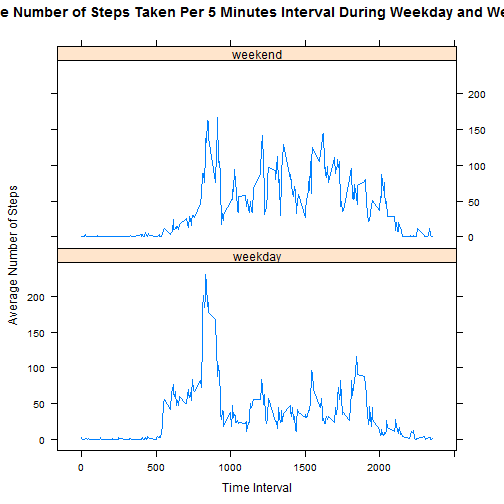
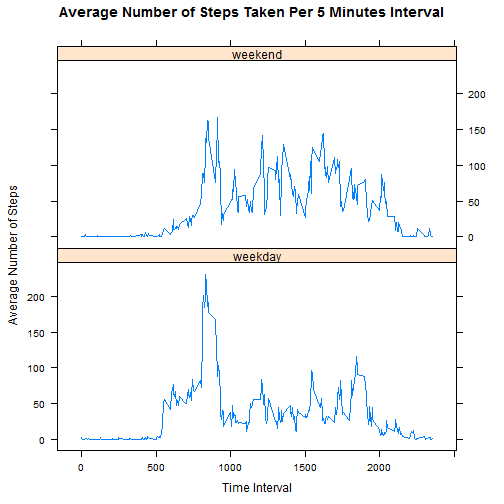
second commit

Changed region(s): [[0.0, 0.0, 1.0, 0.0595]]

diff --git a/PA1_template.html b/PA1_template.html
@@ -464,10 +464,10 @@ interval: Identifier for the 5-minute interval in which measurement was taken</p
         xyplot(stepsPerInterval$steps ~ stepsPerInterval$interval | stepsPerInterval$day, 
                layout = c(1, 2), type = &quot;l&quot;, 
                xlab = &quot;Time Interval&quot;, ylab = &quot;Average Number of Steps&quot;, 
-               main=&quot;Average Number of Steps Taken Per 5 Minutes Interval During Weekday and Weekend&quot;)
+               main=&quot;Average Number of Steps Taken Per 5 Minutes Interval&quot;)
 </code></pre>
 
[2 lines of base64/hex data omitted]
 
 </body>
 

diff --git a/PA1_template.md b/PA1_template.md
@@ -297,7 +297,7 @@ Both the mean and median of the total number of steps taken per day calculated f
         xyplot(stepsPerInterval$steps ~ stepsPerInterval$interval | stepsPerInterval$day, 
                layout = c(1, 2), type = "l", 
                xlab = "Time Interval", ylab = "Average Number of Steps", 
-               main="Average Number of Steps Taken Per 5 Minutes Interval During Weekday and Weekend")
+               main="Average Number of Steps Taken Per 5 Minutes Interval")
 ```
 
 ![plot of chunk unnamed-chunk-15](figure/unnamed-chunk-15-1.png) 
